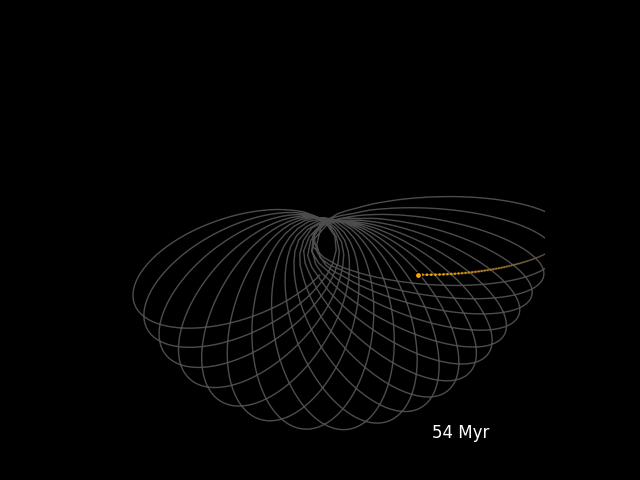
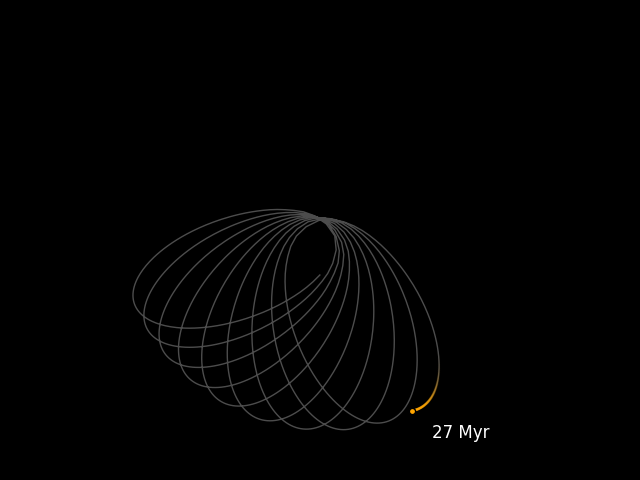
Better image

diff --git a/main.py b/main.py
@@ -10,7 +10,7 @@ if __name__ == '__main__':
     # Interpolate orbit to double the number of frames
     orbit.interpolate_orbit(new_frames_per_frame=2)
     # Static orbit image
-    static_orbit_plot(orbit, frame=3000, savefile="testimage", color="orange")
+    static_orbit_plot(orbit, frame=1500, savefile="testimage", color="orange")
     # Movie with rotation and zooming out
     make_orbit_movie(orbit, startframe=4400, endframe=5400, skipevery=2, color="orange", output_label="testmovie",
                      angle_start=0, angle_end=180, rad_start=0.3, rad_end=0.9)
